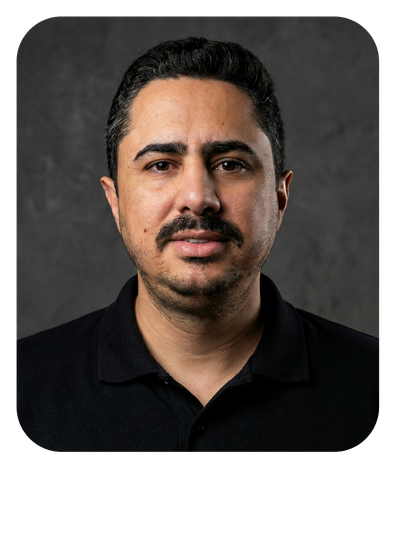
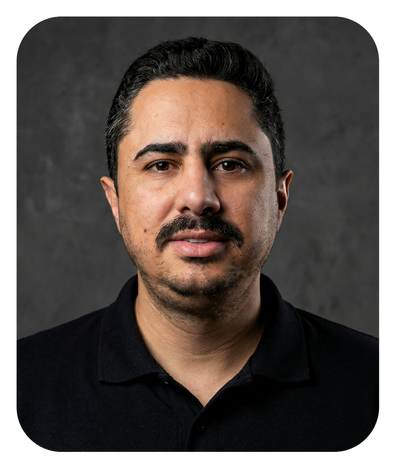
Updates

diff --git a/app/components/Mission.tsx b/app/components/Mission.tsx
@@ -110,7 +110,7 @@ export default function Mission() {
           <div className="mx-4 sm:mx-6 md:mx-8 md:ml-16 lg:ml-24 bg-[#023324] rounded-2xl md:rounded-l-3xl md:rounded-tr-3xl p-4 sm:p-6 md:p-8 min-h-[220px] sm:min-h-[260px] md:min-h-[400px] flex items-center justify-center">
             <div className="relative w-full max-w-[220px] sm:max-w-[280px] md:max-w-[380px] lg:max-w-[420px] rounded-2xl overflow-hidden shadow-xl mx-auto md:mx-0">
               <Image
-                src="/images/RECEPÇÃO .jpeg"
+                src="/images/RECEPÇÃO.png"
                 alt="Recepção OTicket"
                 width={420}
                 height={420}
